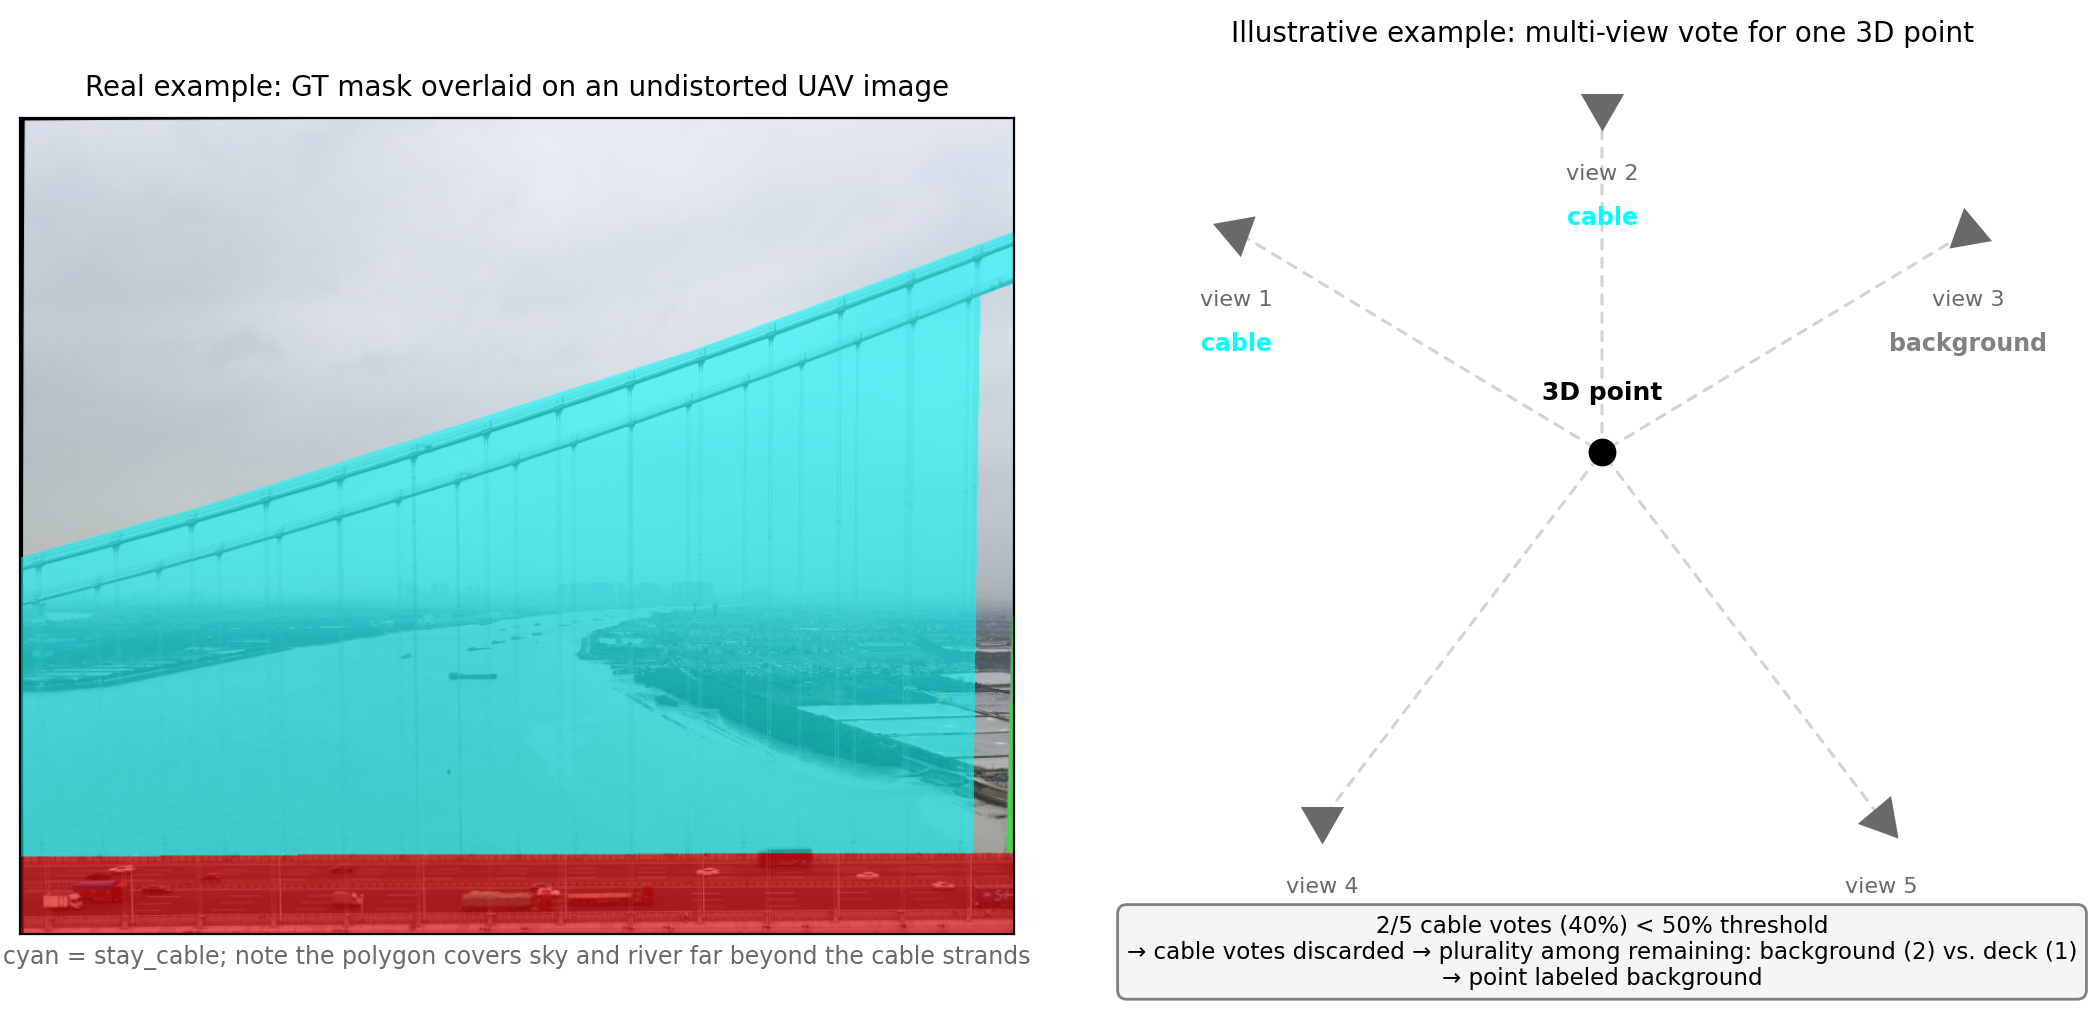
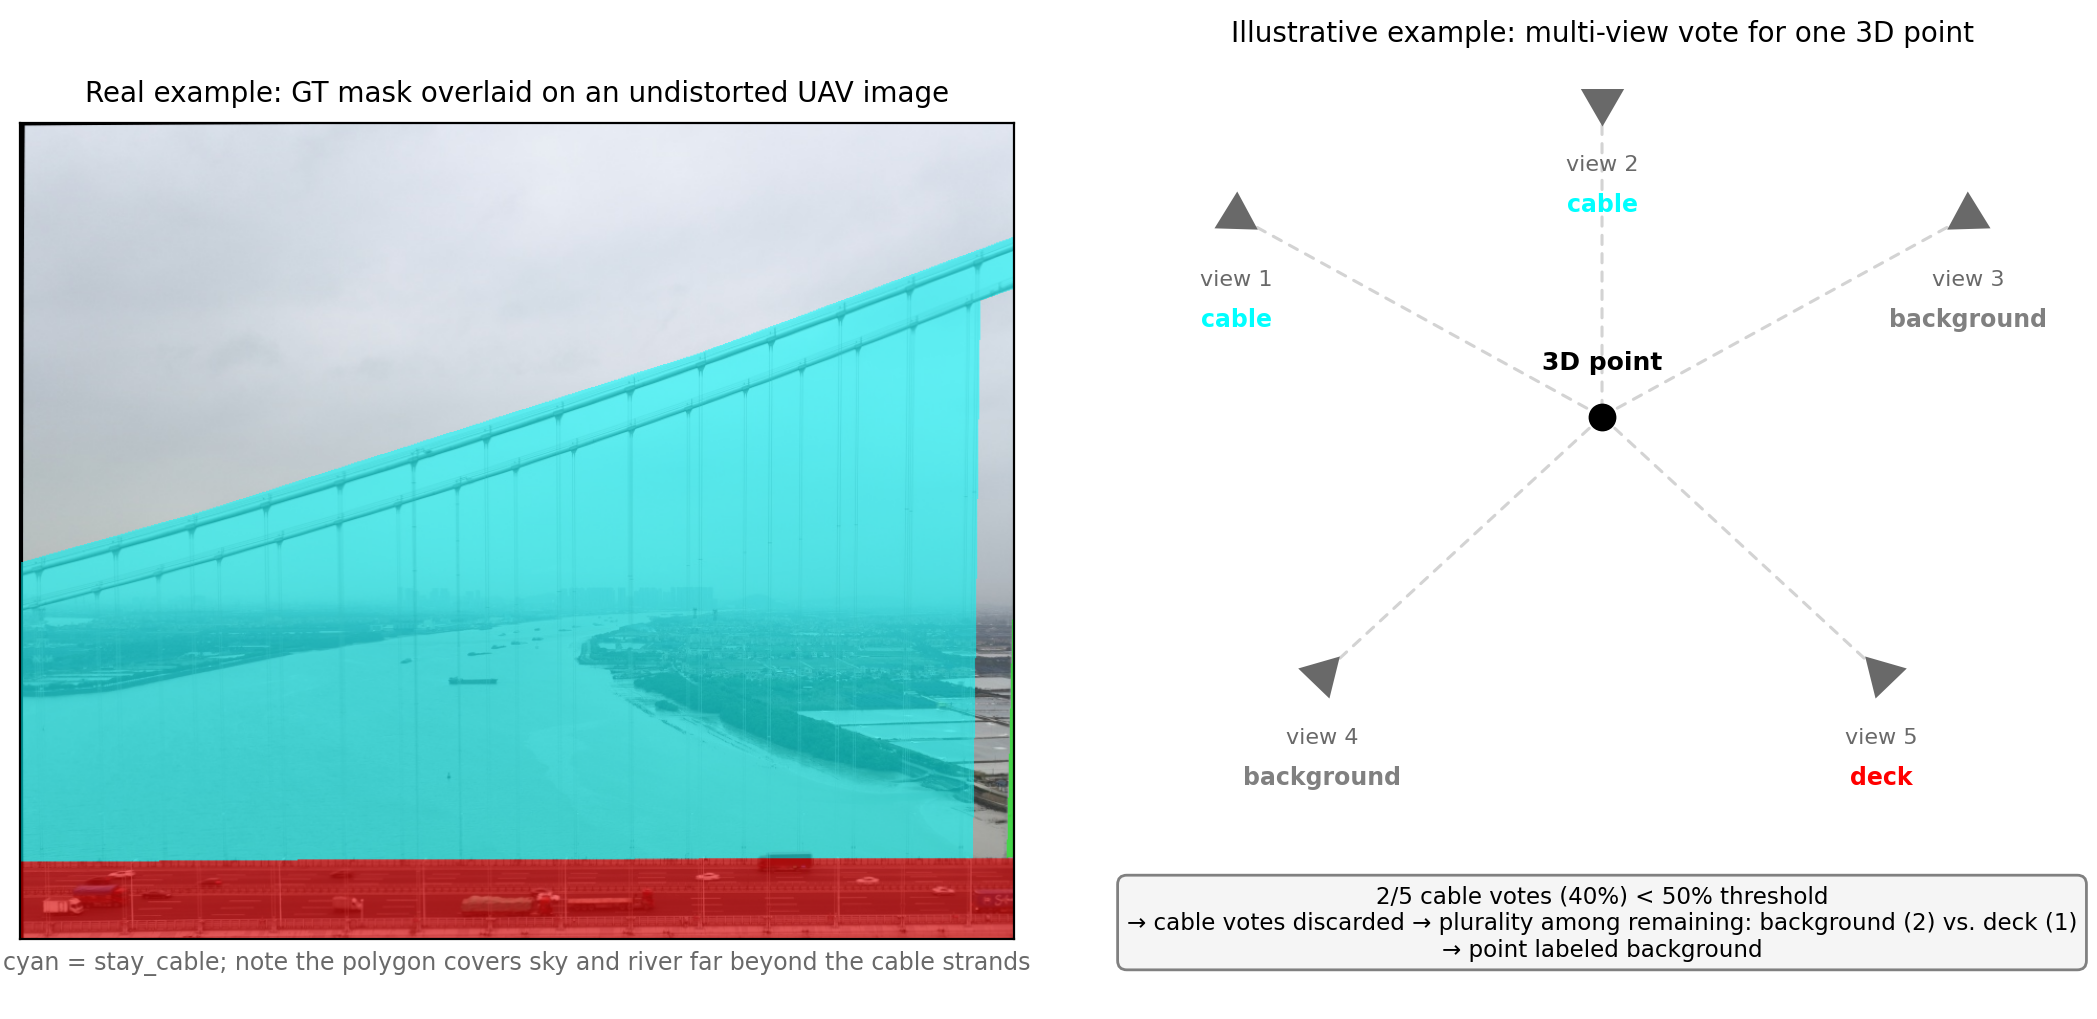
fix: correct camera-triangle orientation and label overlap in Figure 2
The camera marker angles in the voting schematic were hand-guessed and
didn't actually point at the 3D point; derived the correct formula
instead (matplotlib's regular-polygon marker angle is measured
counterclockwise from +y, verified empirically) so each triangle now
precisely faces the point it's voting on. Also fixed the summary text
box overlapping the view 4/5 vote labels by moving cameras up and the
box further down with more vertical room. Clarified the triangle's
meaning in the figure caption.

diff --git a/src/evaluation/plot_cable_voting_figure.py b/src/evaluation/plot_cable_voting_figure.py
@@ -41,10 +41,20 @@ def render_overlay_crop(image_path: str, mask_path: str, crop_box, alpha: float 
     return overlay.astype(np.uint8)
 
 
-def _draw_camera(ax, xy, angle_deg, label, vote_color, vote_text):
-    """Draws a small camera glyph (triangle) at `xy` pointing toward the origin, with its
-    observed-class vote annotated."""
+def _camera_marker_angle_deg(xy, target):
+    """Matplotlib's regular-polygon marker angle is measured counterclockwise from the +y axis
+    (angle=0 -> apex points up/+y; angle=90 -> apex points left/-x - verified empirically).
+    Returns the angle that makes the triangle's apex point from `xy` toward `target`."""
+    dx, dy = target[0] - xy[0], target[1] - xy[1]
+    return np.degrees(np.arctan2(dy, dx)) - 90.0
+
+
+def _draw_camera(ax, xy, target, label, vote_color, vote_text):
+    """Draws a small camera glyph (triangle) at `xy`, its apex pointing toward `target` - i.e.
+    the triangle's orientation shows which way that camera is looking - with its observed-class
+    vote annotated below it."""
     x, y = xy
+    angle_deg = _camera_marker_angle_deg(xy, target)
     ax.plot(x, y, marker=(3, 0, angle_deg), markersize=16, color="dimgray", zorder=4)
     ax.text(x, y - 0.55, label, ha="center", va="top", fontsize=8, color="dimgray")
     ax.text(
@@ -55,7 +65,7 @@ def _draw_camera(ax, xy, angle_deg, label, vote_color, vote_text):
 
 def draw_voting_schematic(ax):
     ax.set_xlim(-4.2, 4.2)
-    ax.set_ylim(-4.6, 4.2)
+    ax.set_ylim(-5.6, 4.2)
     ax.axis("off")
     ax.set_title("Illustrative example: multi-view vote for one 3D point", fontsize=10, pad=8)
 
@@ -68,22 +78,22 @@ def draw_voting_schematic(ax):
     deck_rgb = tuple(_LUT[1] / 255.0)
 
     cams = [
-        # (x, y, angle_deg_pointing_to_origin, label, observed_class, color, is_cable)
-        (-3.4, 2.6, -50, "view 1", "cable", cable_rgb),
-        (0.0, 3.8, 180, "view 2", "cable", cable_rgb),
-        (3.4, 2.6, 130, "view 3", "background", bg_rgb),
-        (-2.6, -3.0, 60, "view 4", "background", bg_rgb),
-        (2.6, -3.0, 100, "view 5", "deck", deck_rgb),
+        # (x, y, label, observed_class, color) - triangle apex is computed to point at `origin`
+        (-3.4, 2.6, "view 1", "cable", cable_rgb),
+        (0.0, 3.8, "view 2", "cable", cable_rgb),
+        (3.4, 2.6, "view 3", "background", bg_rgb),
+        (-2.6, -2.2, "view 4", "background", bg_rgb),
+        (2.6, -2.2, "view 5", "deck", deck_rgb),
     ]
-    for x, y, angle, label, cls_text, color in cams:
+    for x, y, label, cls_text, color in cams:
         ax.add_patch(
             FancyArrowPatch((x, y), origin, arrowstyle="-", linestyle=(0, (3, 3)),
                              color="lightgray", linewidth=1.1, zorder=1)
         )
-        _draw_camera(ax, (x, y), angle, label, color, cls_text)
+        _draw_camera(ax, (x, y), origin, label, color, cls_text)
 
     ax.text(
-        0, -3.9,
+        0, -4.4,
         "2/5 cable votes (40%) < 50% threshold\n"
         "→ cable votes discarded → plurality among remaining: background (2) vs. deck (1)\n"
         "→ point labeled background",

diff --git a/paper/DRAFT.md b/paper/DRAFT.md
@@ -288,9 +288,10 @@ the cable pixels alone), not merely from cable occupying few pixels, so only cab
 real ground-truth mask overlaid on its undistorted UAV photo — the `stay_cable` polygon (cyan)
 covers a large triangular region of sky and river far beyond the cable strands themselves,
 exactly the annotation artifact motivating the strict-majority rule. Right: an illustrative
-(not one specific real point) schematic of the voting mechanism — a minority of observing views
-seeing a 3D point as cable is not enough to assign it the cable class; those votes are discarded
-and the remaining views decide by plurality.
+(not one specific real point) schematic of the voting mechanism — each triangle is a camera,
+oriented to face the 3D point being voted on, labeled with the class it observes there. A
+minority of observing views seeing the point as cable is not enough to assign it the cable class;
+those votes are discarded and the remaining views decide by plurality.
 
 The winning class is encoded as a scaled one-hot
 logit (+2 at the voted class, −2 elsewhere) rather than a hard, unbreakable label, so that the
